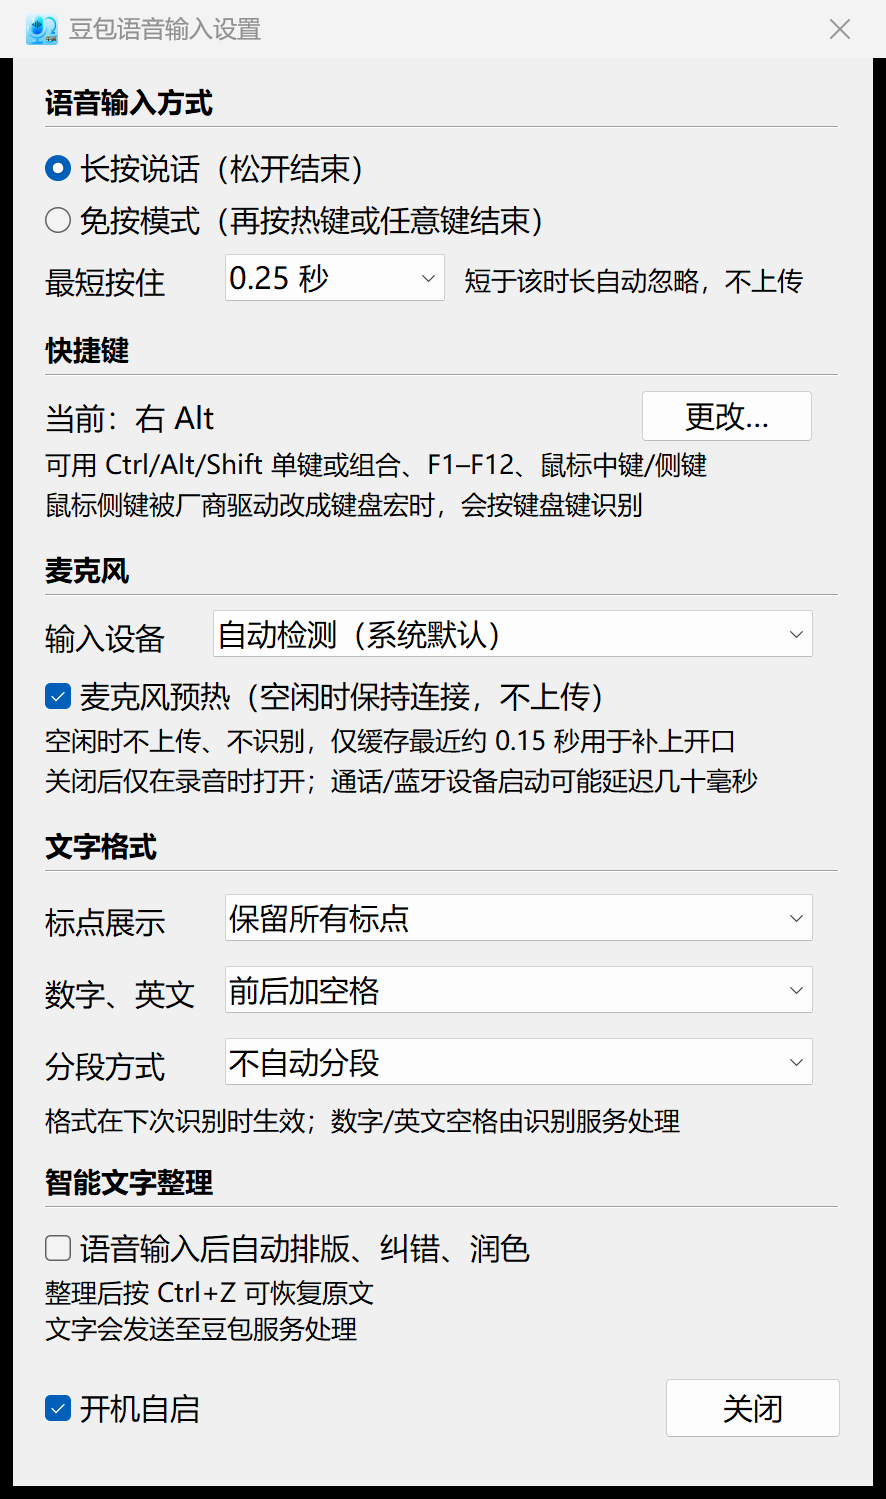
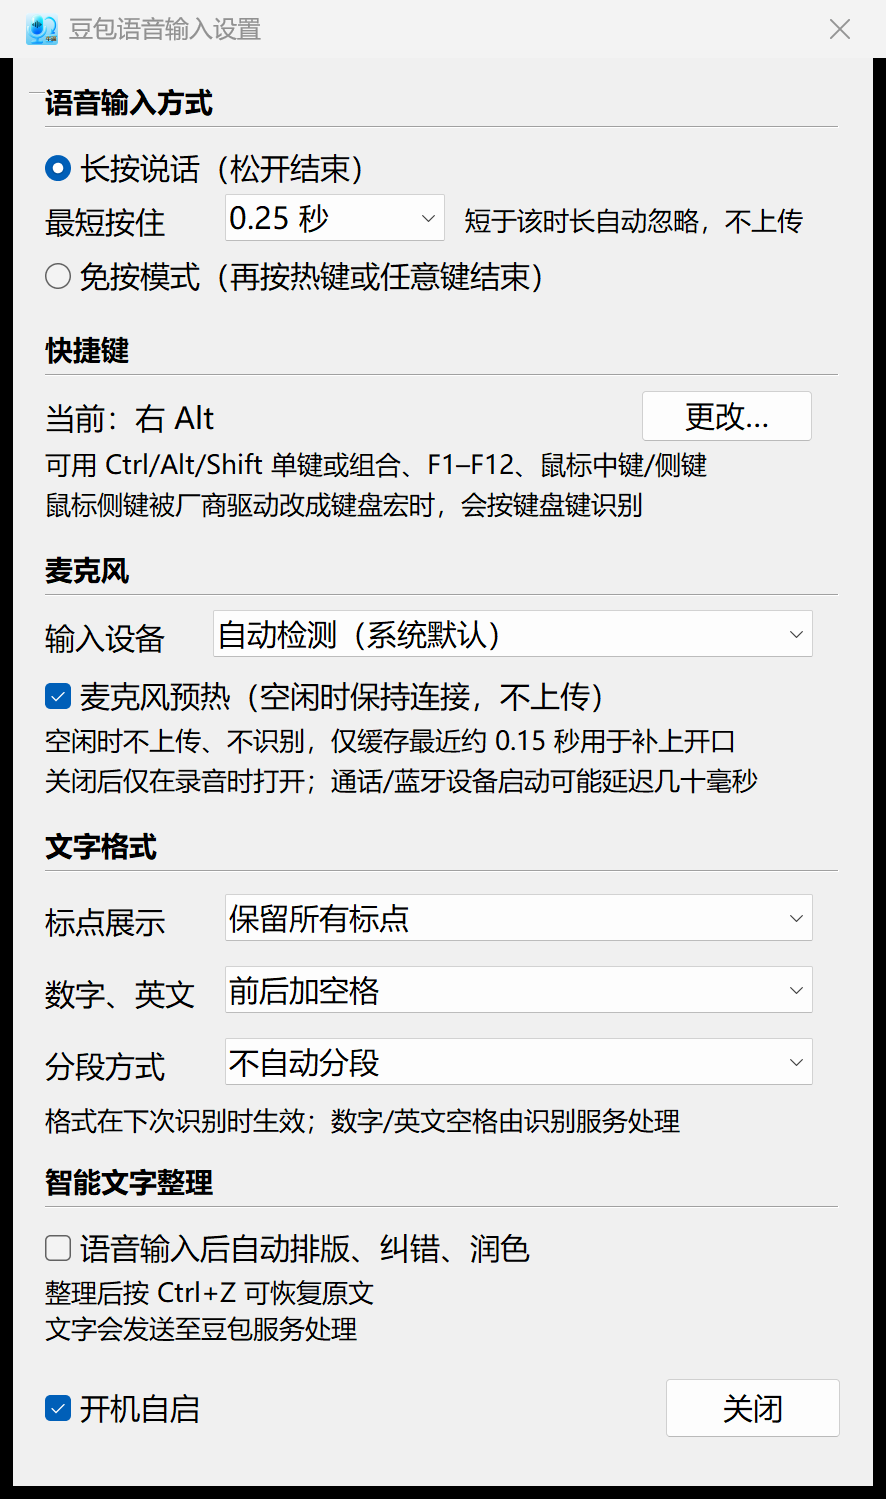
设置页把最短按住移到长按说话下方，避免误认为免按设置

diff --git a/app/voice_ime.py b/app/voice_ime.py
@@ -2613,14 +2613,14 @@ class Settings:
         self._section("语音输入方式", 12, 2201, 2211)
         self._mk("BUTTON", "长按说话（松开结束）", BS_AUTORADIOBUTTON | WS_TABSTOP | WS_GROUP,
                  M, 44, 190, 22, self.ID_MODE_HOLD)
-        self._mk("BUTTON", "免按模式（再按热键或任意键结束）", BS_AUTORADIOBUTTON | WS_TABSTOP,
-                 M, 70, 340, 22, self.ID_MODE_FREE)
-        self._mk("STATIC", "最短按住", 0, M, 102, 82, 20, self.ID_MIN_HOLD_LABEL)
+        self._mk("STATIC", "最短按住", 0, M, 72, 82, 20, self.ID_MIN_HOLD_LABEL)
         combo = self._mk("COMBOBOX", "", CBS_DROPDOWNLIST | CBS_HASSTRINGS | WS_TABSTOP
-                         | WS_VSCROLL, M + 90, 98, 110, 200, self.ID_MIN_HOLD)
+                         | WS_VSCROLL, M + 90, 68, 110, 200, self.ID_MIN_HOLD)
         user32.SendMessageW(combo, CB_SETDROPPEDWIDTH, self._s(240), 0)
         self._mk("STATIC", "短于该时长自动忽略，不上传", 0,
-                 M + 210, 102, CW - 210, 18, self.ID_MIN_HOLD_HINT, small=True)
+                 M + 210, 72, CW - 210, 18, self.ID_MIN_HOLD_HINT, small=True)
+        self._mk("BUTTON", "免按模式（再按热键或任意键结束）", BS_AUTORADIOBUTTON | WS_TABSTOP,
+                 M, 98, 340, 22, self.ID_MODE_FREE)
 
         self._section("快捷键", 136, 2202, 2212)
         self._mk("STATIC", "", 0, M, 170, 220, 20, self.ID_HOTKEY_LABEL)
